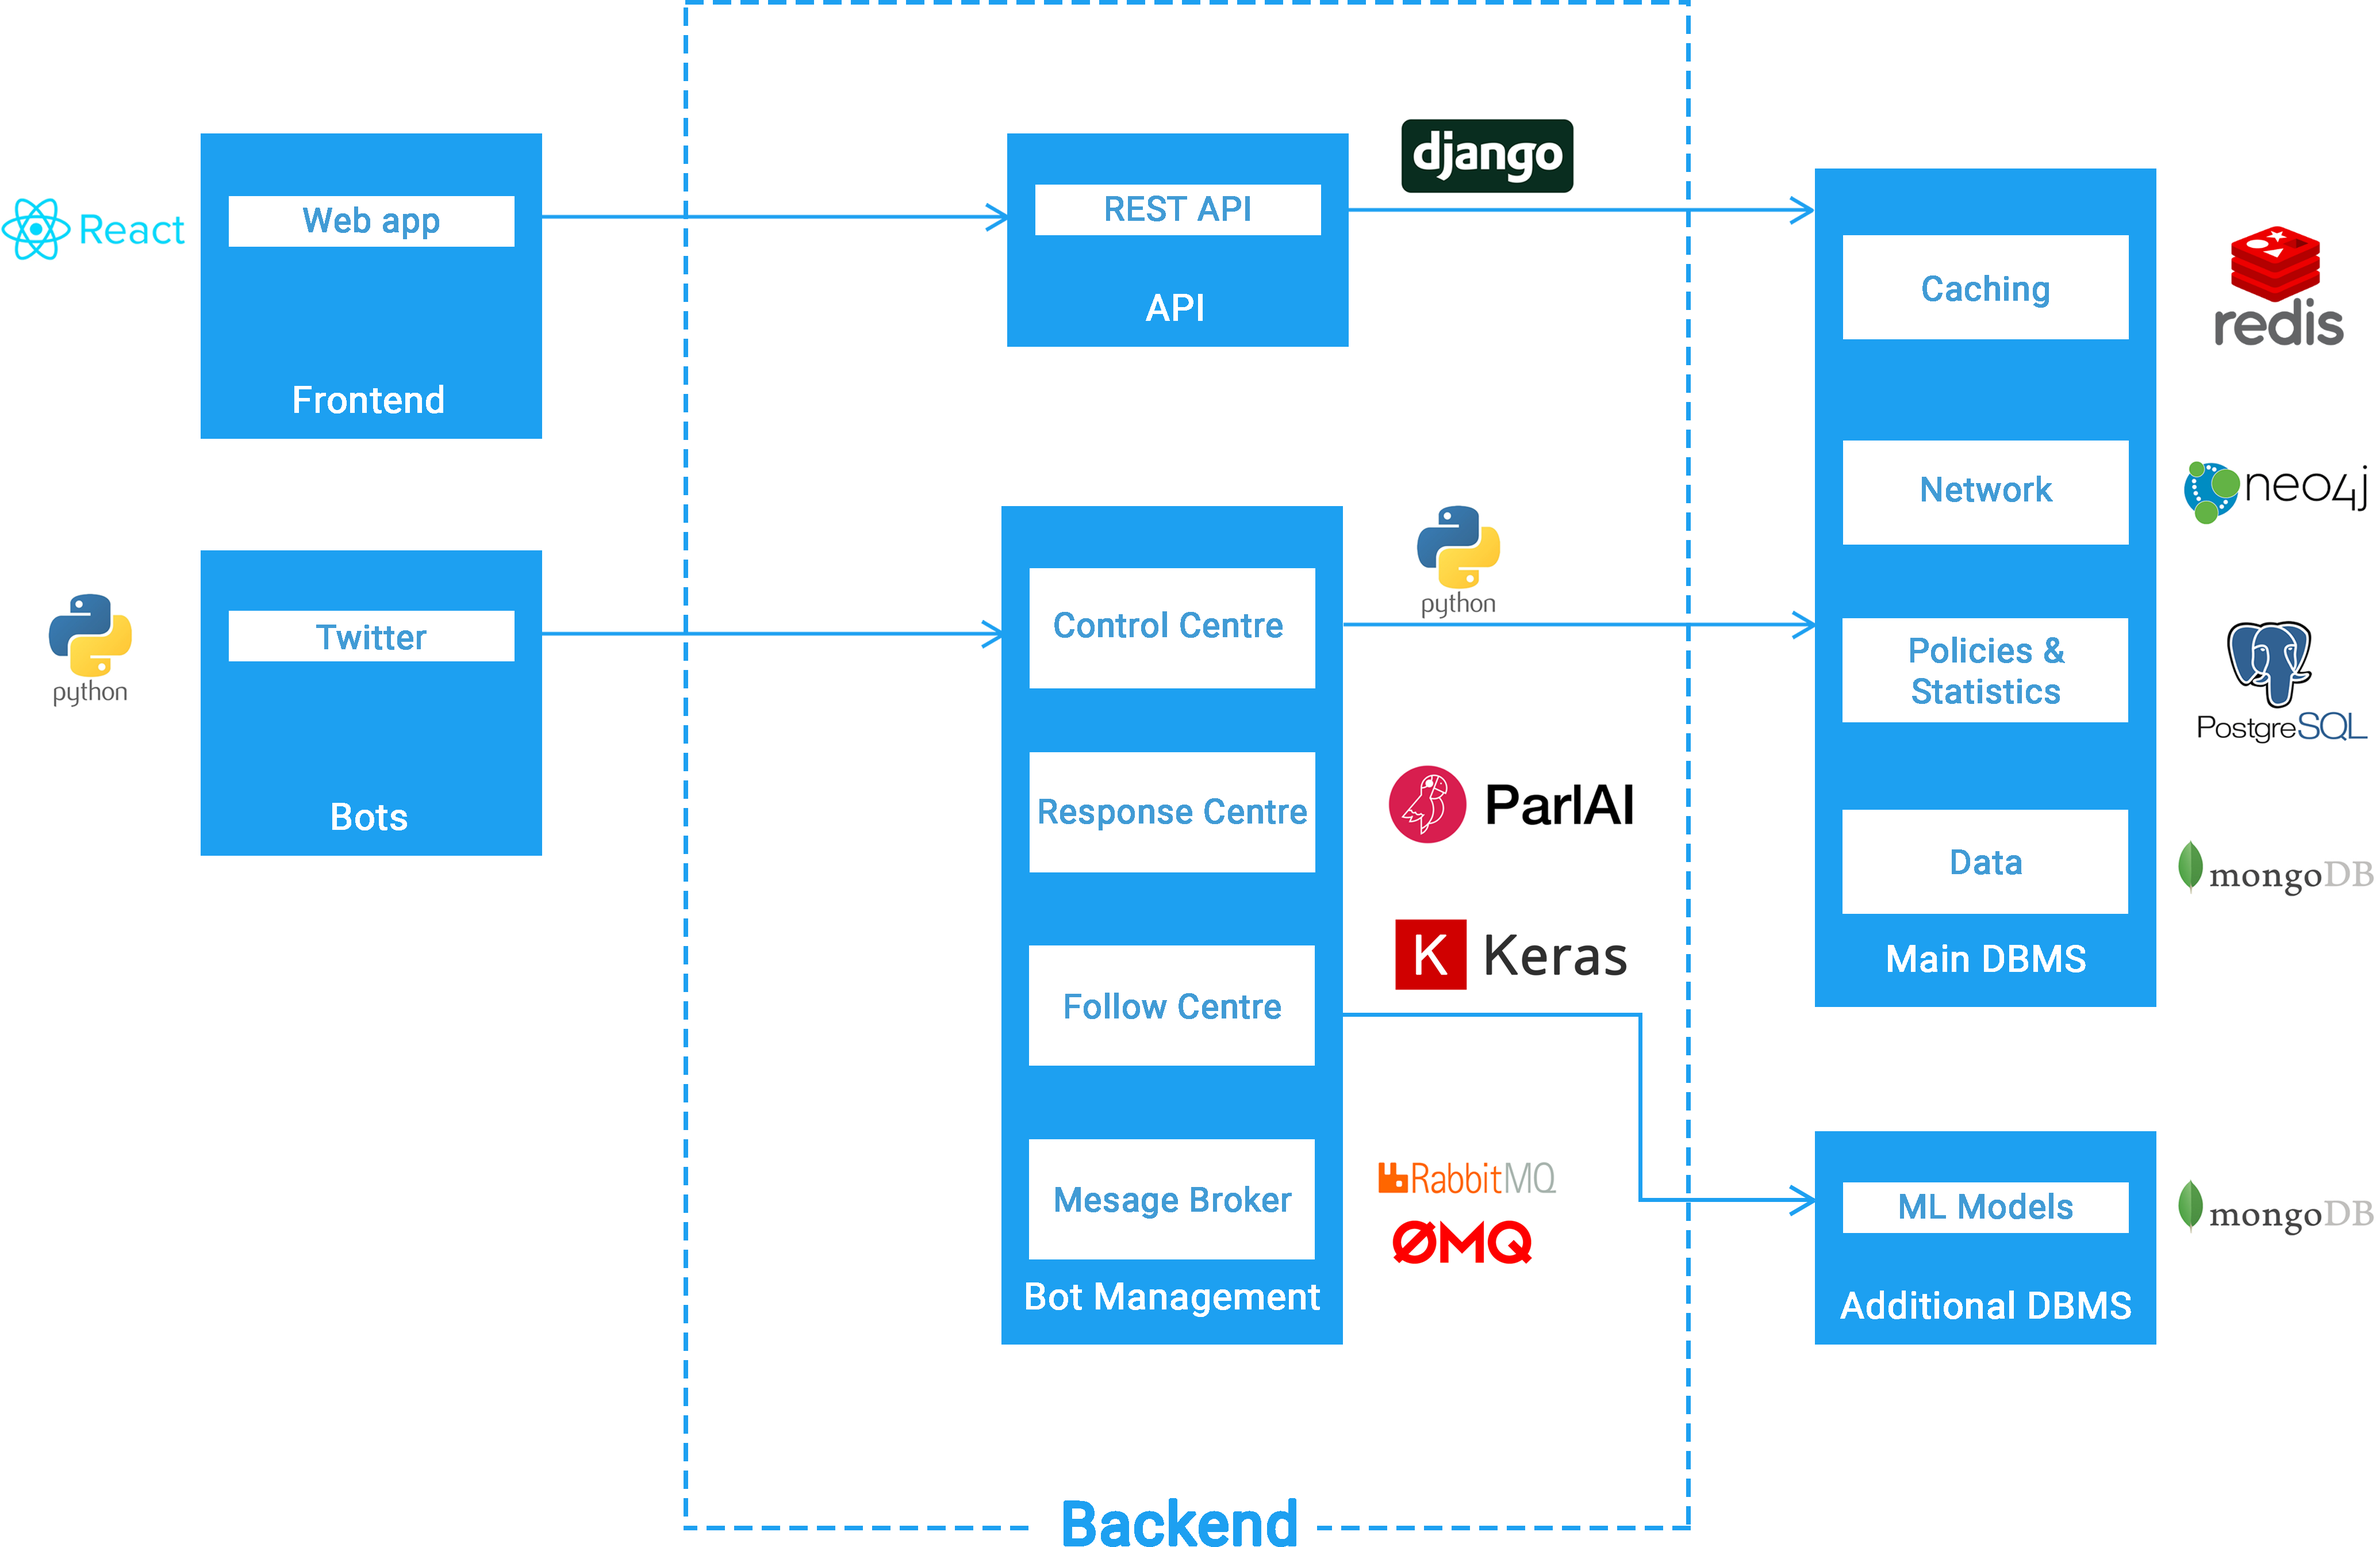
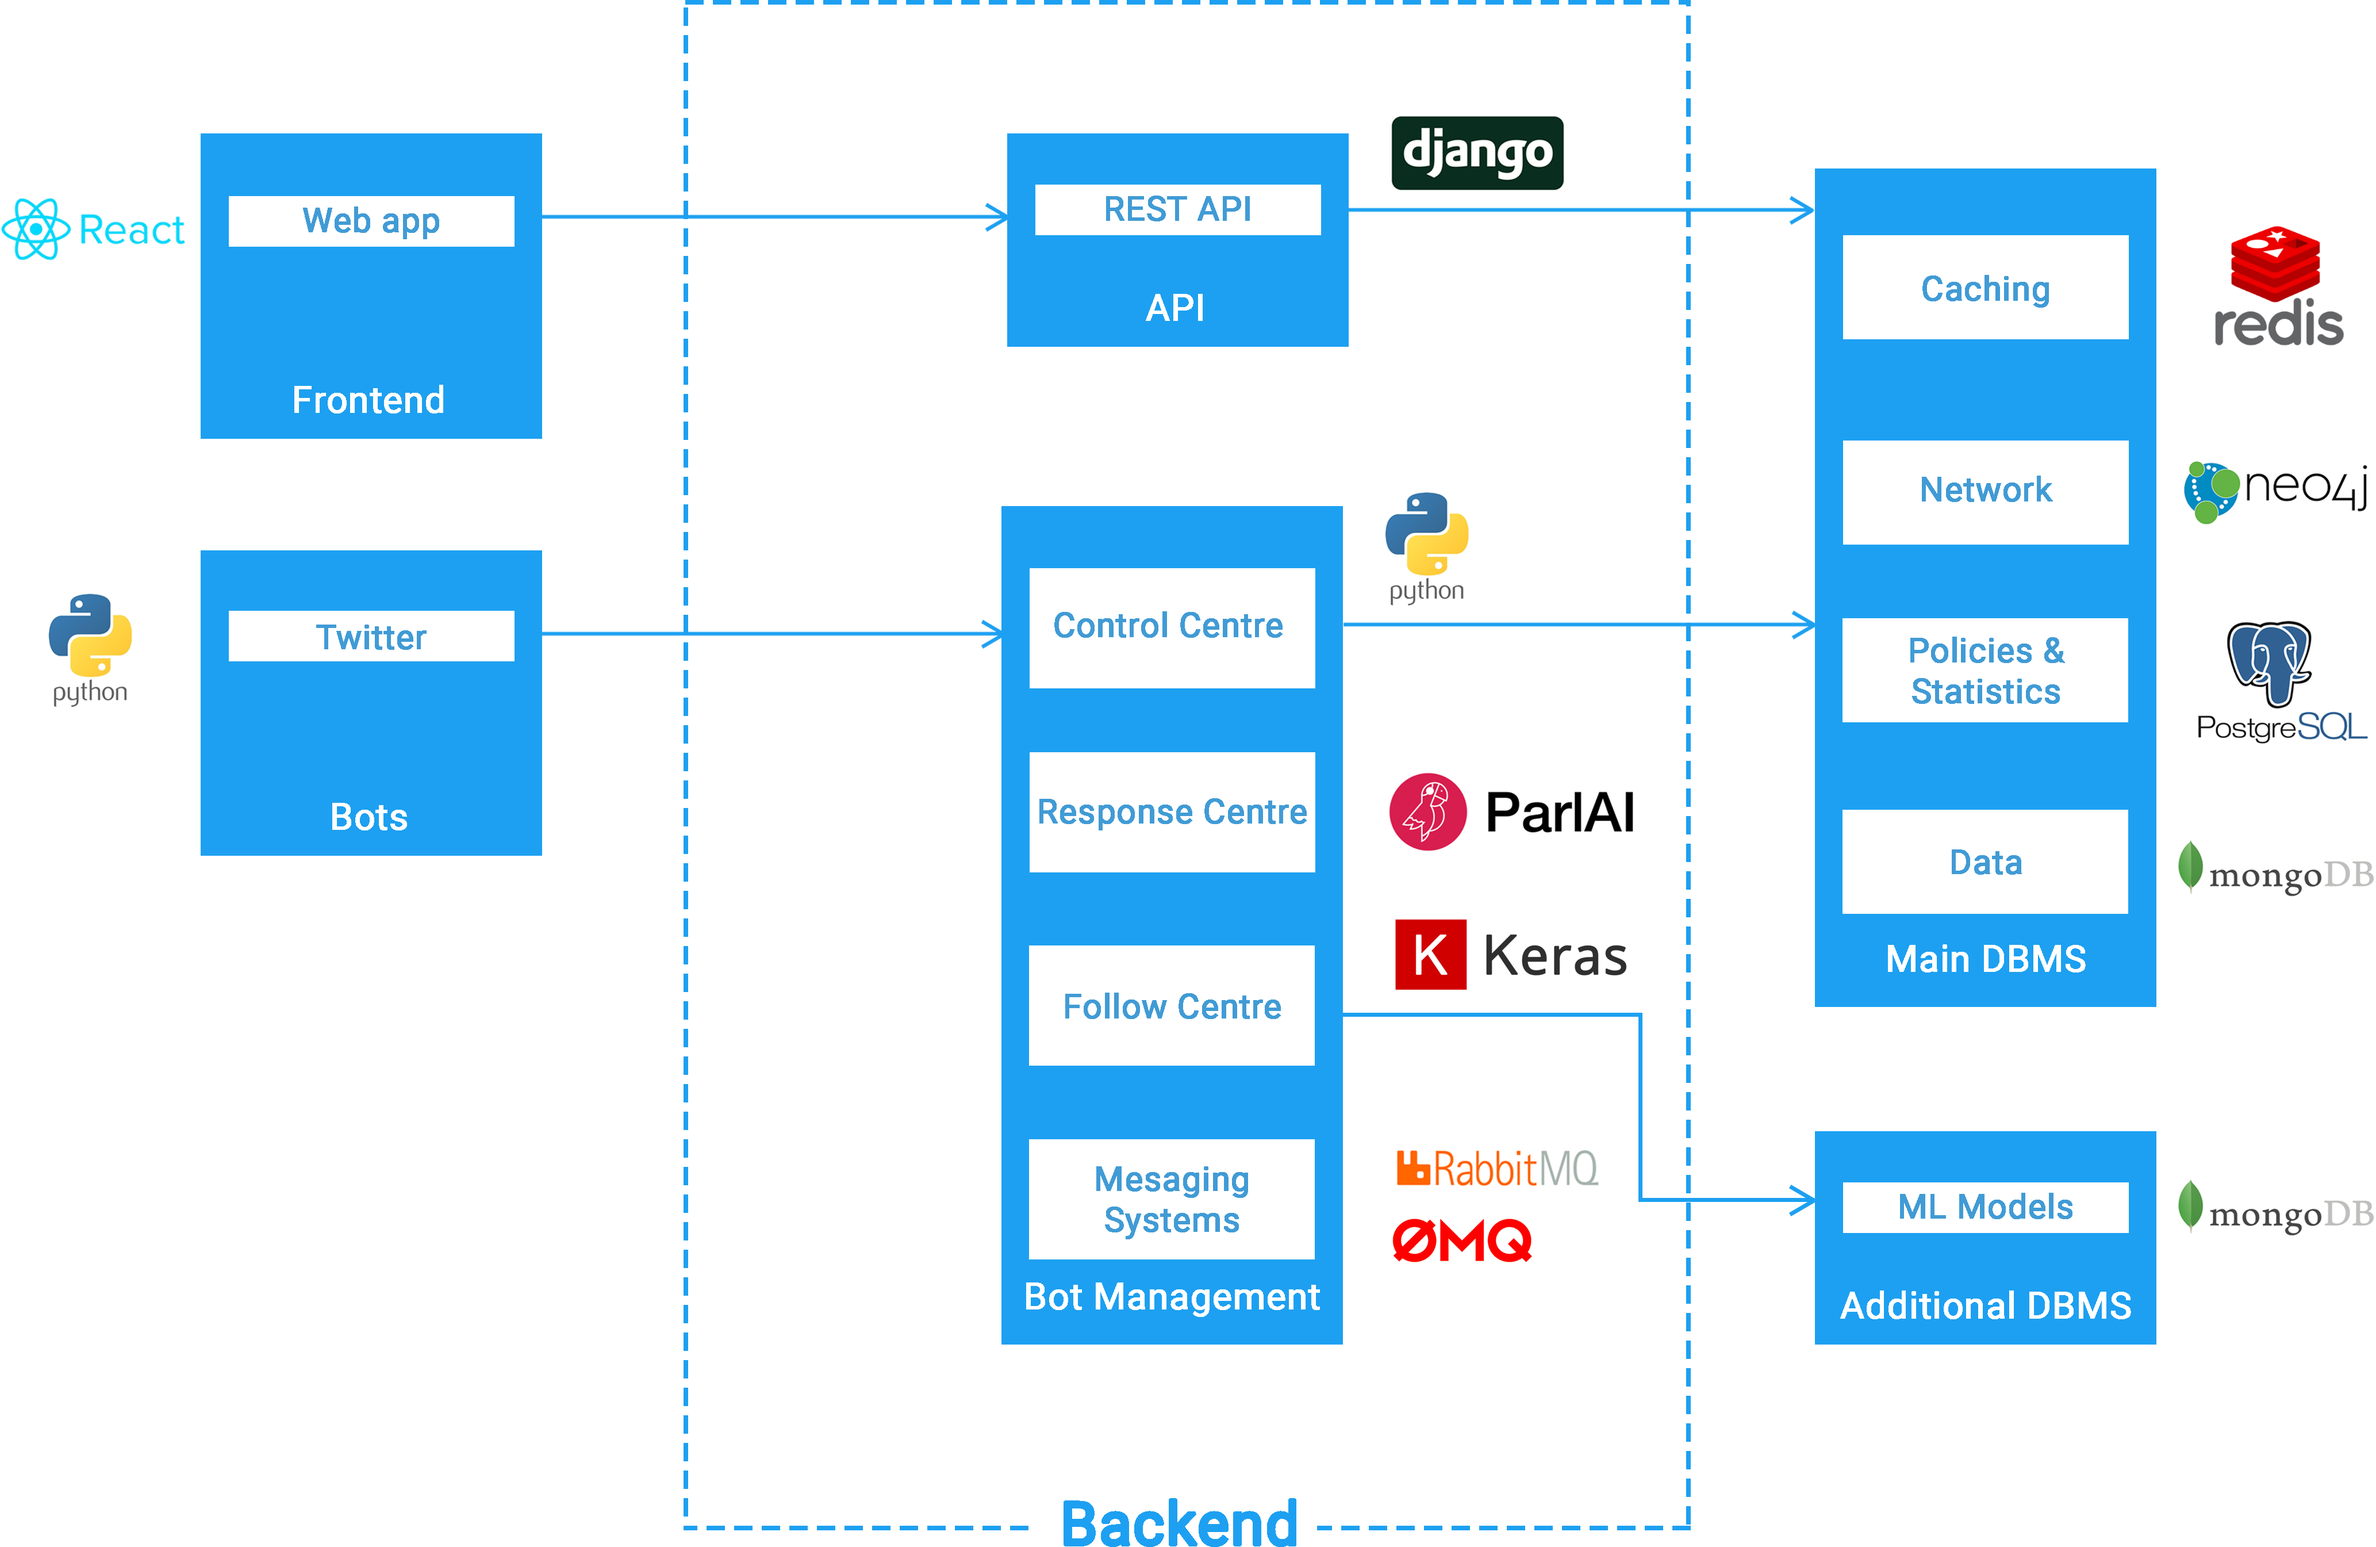
small changes to portfolio

diff --git a/code/public-portfolio/index.html b/code/public-portfolio/index.html
@@ -440,7 +440,7 @@
             </div>
             <div class="col-lg-6 col-xl-5 ml-xl-auto mt-50">
               <div class="special_description_content">
-                <h2>Our Message Brokers</h2>
+                <h2>Our Messaging Systems</h2>
                 <p>
                   Our product is made up of several services that communicate between each other. As such we had to make use of mechanisms that would allow for such interactions to take place. For most of our communications we utilized RabbitMQ, which permits the swapping of messages even if services are currently unavailable (although with the promise that the message will eventually reach it's destined service). We also used ZeroMQ for the communication between our Control Centre and Response Centre due to it's ease of usage and light-weightedness (and since ParlAI already possesses a server that integrates well with connections made using this tool).
                 </p>
@@ -530,7 +530,7 @@
               </div>
               <div class="col-lg-6 col-xl-5 ml-xl-auto mt-50">
                 <div class="special_description_content">
-                  <h2>Passing the Turing Test</h2>
+                  <h2>Immitating Human Behaviour</h2>
                   <p>
                     Our Bots are intelligent and capable of mimicking human behaviour. So intelligent, in fact, that they've even, inadvertadly, 
                     passed the Turing Test. They're capable of replying to real users' tweets by creating retweets and 
